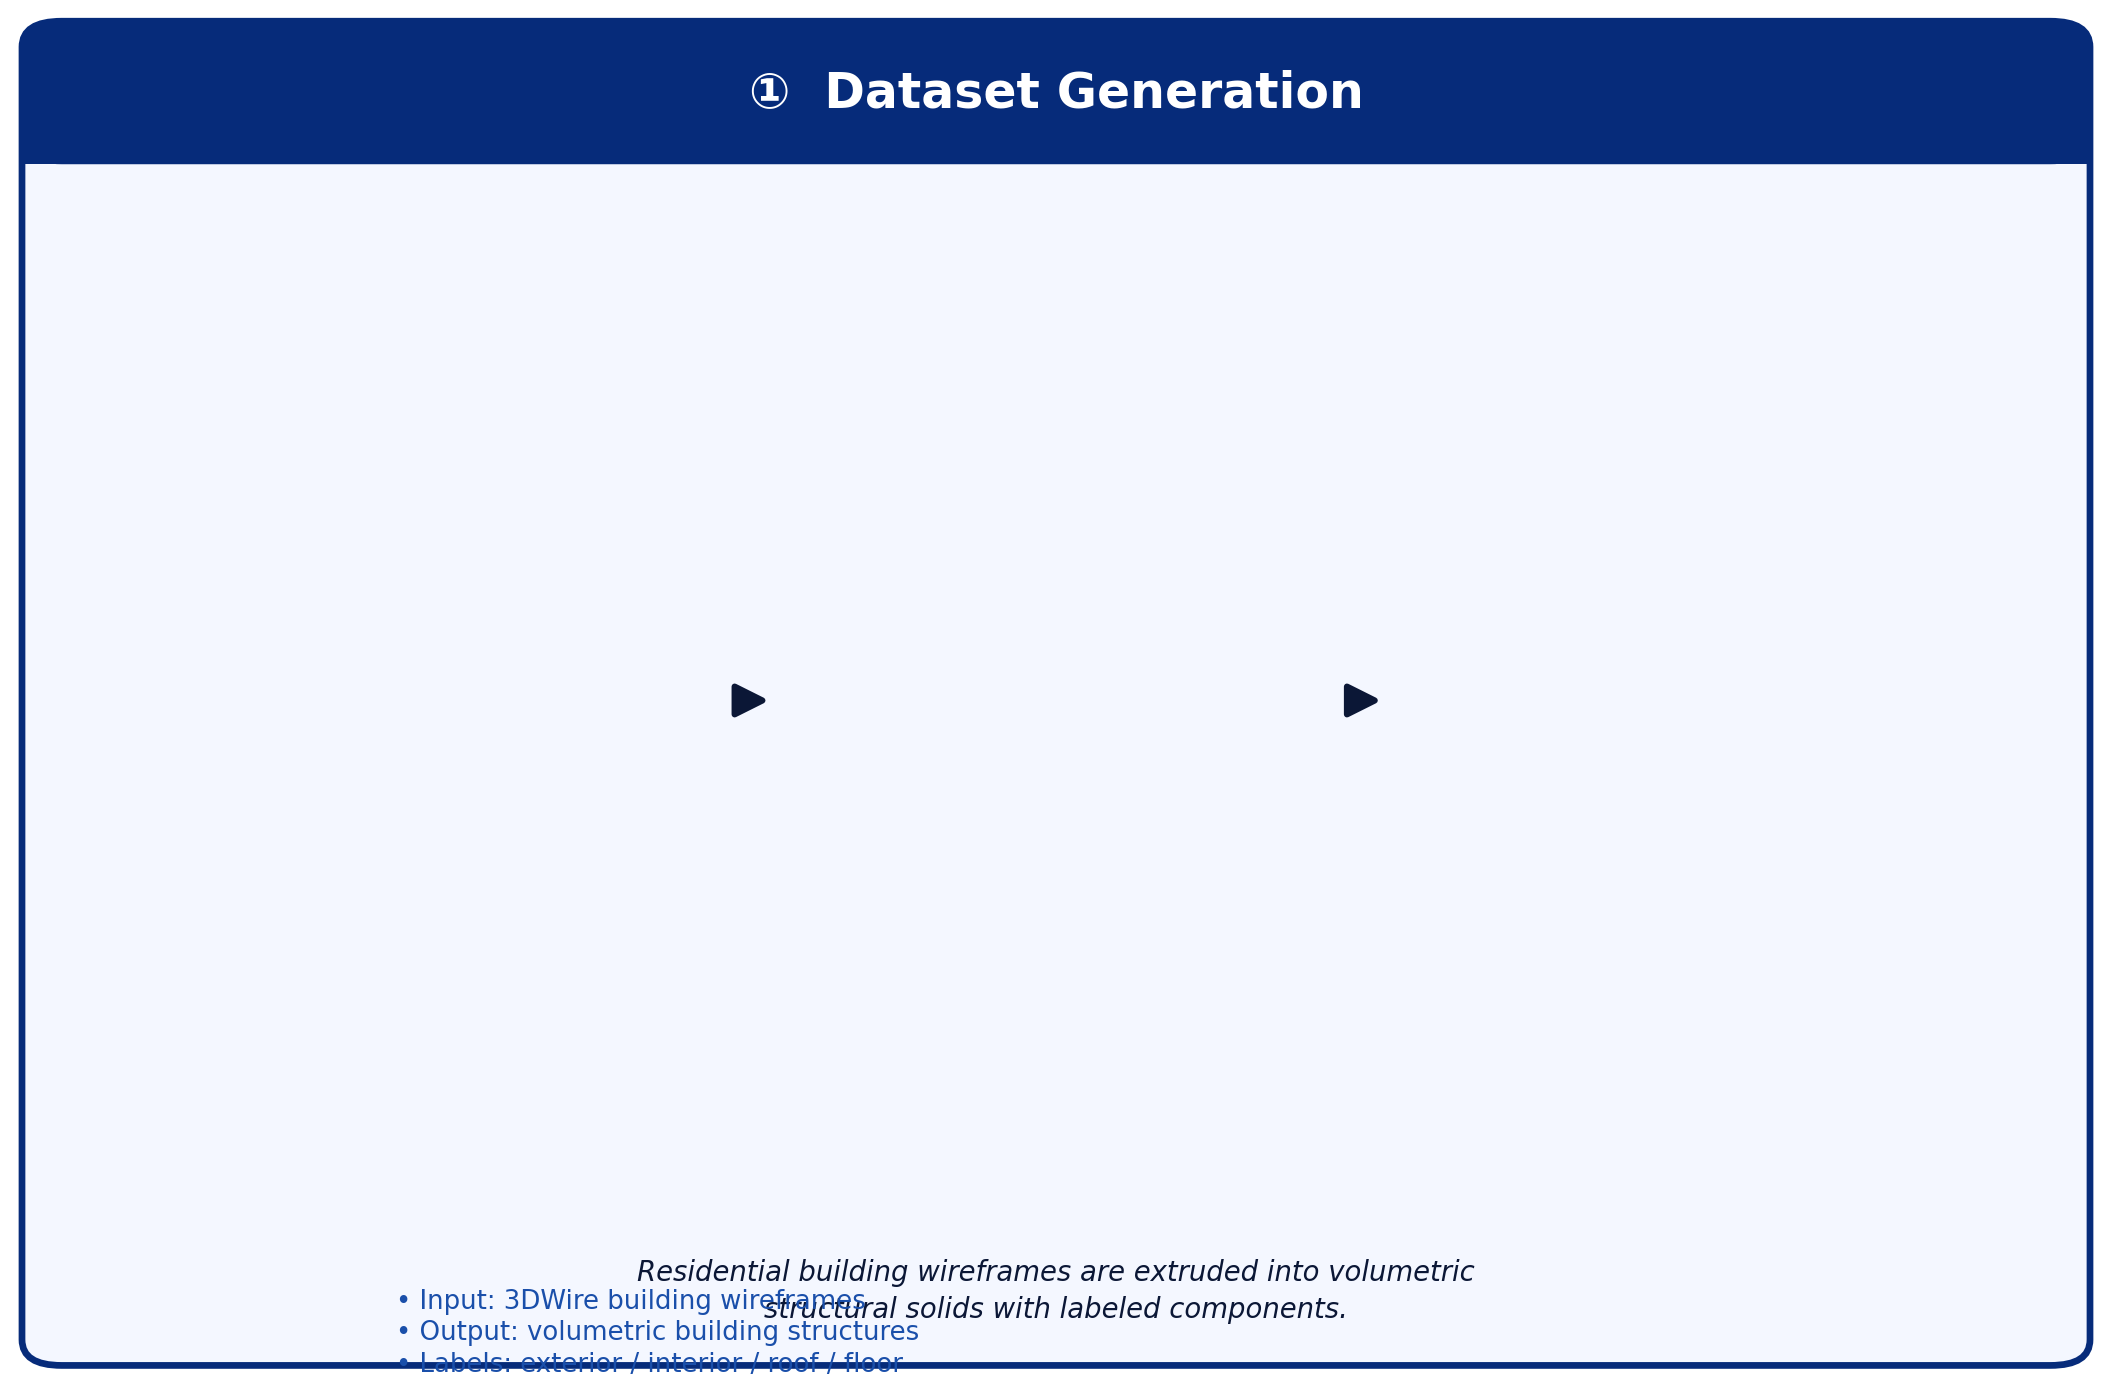
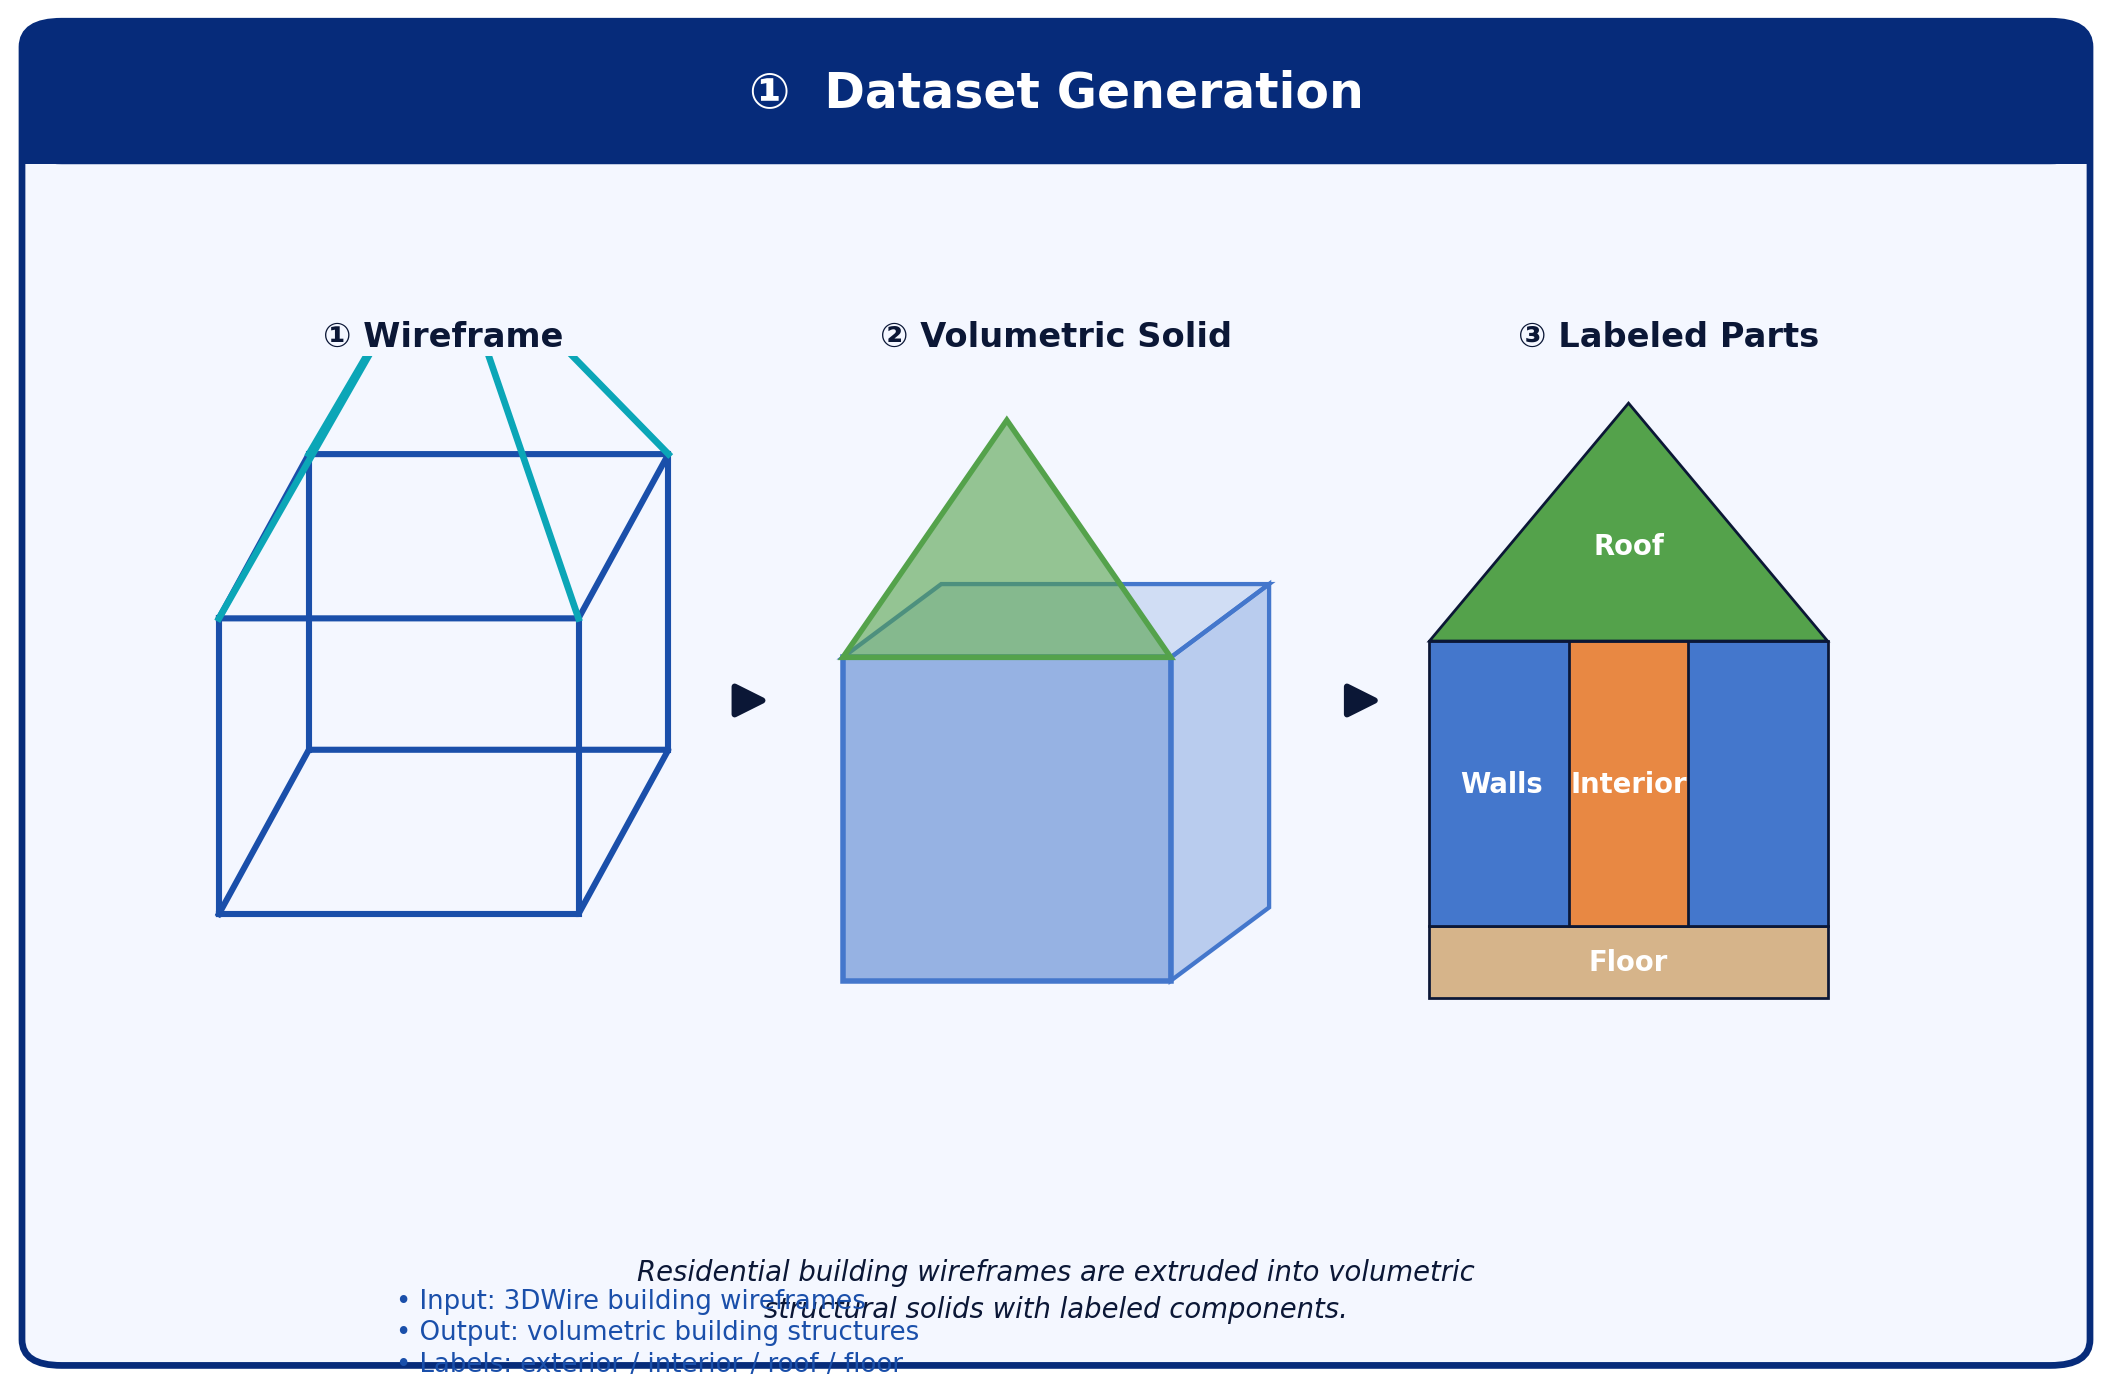
fix methodology panels: render content above card background

diff --git a/generate_methodology_panels.py b/generate_methodology_panels.py
@@ -123,6 +123,17 @@ def _make_figure():
     return fig, (cx, cy, cw, ch), (hx, hy, hw, hh), (bx, by, bw, bh)
 
 
+def _axes(fig, rect, projection=None, z=6):
+    """Create an axes that stays above the background card."""
+    if projection is None:
+        ax = fig.add_axes(rect)
+    else:
+        ax = fig.add_axes(rect, projection=projection)
+    ax.set_zorder(z)
+    ax.patch.set_alpha(0)
+    return ax
+
+
 def _finalize(fig, title, caption, bullets, outname):
     cx, cy, cw, ch = MARGIN, MARGIN, 1 - 2 * MARGIN, 1 - 2 * MARGIN
     hx, hy, hw, hh = cx, cy + ch - HEADER_H, cw, HEADER_H
@@ -192,7 +203,7 @@ def panel_dataset():
     sy = by + bh * 0.14
 
     def sub_ax(col):
-        return fig.add_axes([bx + pad + col * (sw + pad), sy, sw, sh])
+        return _axes(fig, [bx + pad + col * (sw + pad), sy, sw, sh])
 
     # ① wireframe
     ax = sub_ax(0)
@@ -275,7 +286,7 @@ def panel_meshing():
 
     # Left: house silhouette
     from matplotlib.patches import Polygon as MPoly
-    axL = fig.add_axes([bx + pad, sy, sw, sh])
+    axL = _axes(fig, [bx + pad, sy, sw, sh])
     axL.set_xlim(0, 1.3); axL.set_ylim(0, 1.2); axL.axis("off")
     axL.add_patch(mpatches.Rectangle((0.05, 0.05), 0.90, 0.65,
                   facecolor=WALL + "88", edgecolor=WALL, lw=2.0))
@@ -287,7 +298,7 @@ def panel_meshing():
             arr_cx + 0.004, sy + sh * 0.5, lw=2.2, scale=14)
 
     # Right: Delaunay mesh
-    axR = fig.add_axes([bx + pad + sw + pad, sy, sw, sh])
+    axR = _axes(fig, [bx + pad + sw + pad, sy, sw, sh])
     axR.set_xlim(0, 1); axR.set_ylim(0, 1); axR.axis("off")
     rng = np.random.default_rng(42)
     px = np.concatenate([rng.uniform(0.05, 0.95, 60), [0.5]])
@@ -329,7 +340,7 @@ def panel_fea():
     hm_x = bx + sw + pad + bw * 0.24
 
     # Left: mesh
-    axM = fig.add_axes([bx + pad, sy, sw, sh])
+    axM = _axes(fig, [bx + pad, sy, sw, sh])
     axM.set_xlim(0, 1); axM.set_ylim(0, 1); axM.axis("off")
     rng = np.random.default_rng(7)
     pts = rng.uniform(0.05, 0.95, (60, 2))
@@ -353,7 +364,7 @@ def panel_fea():
             hm_x - 0.008, sy + sh * 0.5, lw=2.0, scale=13)
 
     # Right: stress heatmap
-    axS = fig.add_axes([hm_x, sy, sw, sh])
+    axS = _axes(fig, [hm_x, sy, sw, sh])
     Z = gaussian_filter(np.random.default_rng(9).random((24, 24)), sigma=3.0)
     axS.imshow(Z, cmap="jet", origin="lower", aspect="auto",
                extent=[0, 1, 0, 1], interpolation="bilinear")
@@ -362,7 +373,7 @@ def panel_fea():
 
     # Colorbar
     cbx = bx + bw * 0.55
-    cax = fig.add_axes([cbx, by + 0.010, bw * 0.36, 0.022])
+    cax = _axes(fig, [cbx, by + 0.010, bw * 0.36, 0.022])
     cb = plt.colorbar(
         plt.cm.ScalarMappable(mcolors.Normalize(0, 1), cmap="jet"),
         cax=cax, orientation="horizontal")
@@ -395,7 +406,7 @@ def panel_voxelization():
     sy = by + bh * 0.15
 
     # ① tet mesh
-    ax = fig.add_axes([bx + pad, sy, sw, sh])
+    ax = _axes(fig, [bx + pad, sy, sw, sh])
     ax.set_xlim(0, 1); ax.set_ylim(0, 1); ax.axis("off")
     rng = np.random.default_rng(3)
     pts = rng.uniform(0.08, 0.92, (45, 2))
@@ -409,7 +420,7 @@ def panel_voxelization():
     ax.set_title("① Tet Mesh", fontsize=11, color=DARK, pad=3, fontweight="bold")
 
     # ② uniform voxel grid
-    ax = fig.add_axes([bx + pad * 2 + sw, sy, sw, sh])
+    ax = _axes(fig, [bx + pad * 2 + sw, sy, sw, sh])
     ax.set_xlim(0, 1); ax.set_ylim(0, 1); ax.axis("off")
     nv = 9
     for ix in range(nv):
@@ -422,7 +433,7 @@ def panel_voxelization():
     ax.set_title("② Voxel Grid", fontsize=11, color=DARK, pad=3, fontweight="bold")
 
     # ③ labeled channels
-    ax = fig.add_axes([bx + pad * 3 + sw * 2, sy, sw, sh])
+    ax = _axes(fig, [bx + pad * 3 + sw * 2, sy, sw, sh])
     ax.set_xlim(0, 1); ax.set_ylim(0, 1); ax.axis("off")
     cmap_data = {0: WALL, 1: INTERIOR, 2: ROOF, 3: SLAB}
     rng2 = np.random.default_rng(8)
@@ -459,7 +470,7 @@ def panel_surrogate():
     fig, card_rect, hdr, body = _make_figure()
     bx, by, bw, bh = body
 
-    ax = fig.add_axes([bx, by + bh * 0.08, bw, bh * 0.82])
+    ax = _axes(fig, [bx, by + bh * 0.08, bw, bh * 0.82])
     ax.set_xlim(0, 1); ax.set_ylim(0, 1); ax.axis("off")
 
     layers = [
@@ -510,7 +521,7 @@ def panel_optimization():
     fig, card_rect, hdr, body = _make_figure()
     bx, by, bw, bh = body
 
-    ax = fig.add_axes([bx, by + bh * 0.05, bw, bh * 0.85])
+    ax = _axes(fig, [bx, by + bh * 0.05, bw, bh * 0.85])
     ax.set_xlim(0, 1); ax.set_ylim(0, 1); ax.axis("off")
 
     steps = [
@@ -630,8 +641,7 @@ def panel_results():
     ay_mid = sy + sh * 0.50
 
     for i, (ply, cmode, lbl) in enumerate(models):
-        ax3 = fig.add_axes([bx + pad + i * (sw + pad), sy, sw, sh],
-                           projection="3d")
+        ax3 = _axes(fig, [bx + pad + i * (sw + pad), sy, sw, sh], projection="3d")
         try:
             _render_ply(ply, ax3, color_mode=cmode)
         except Exception:
